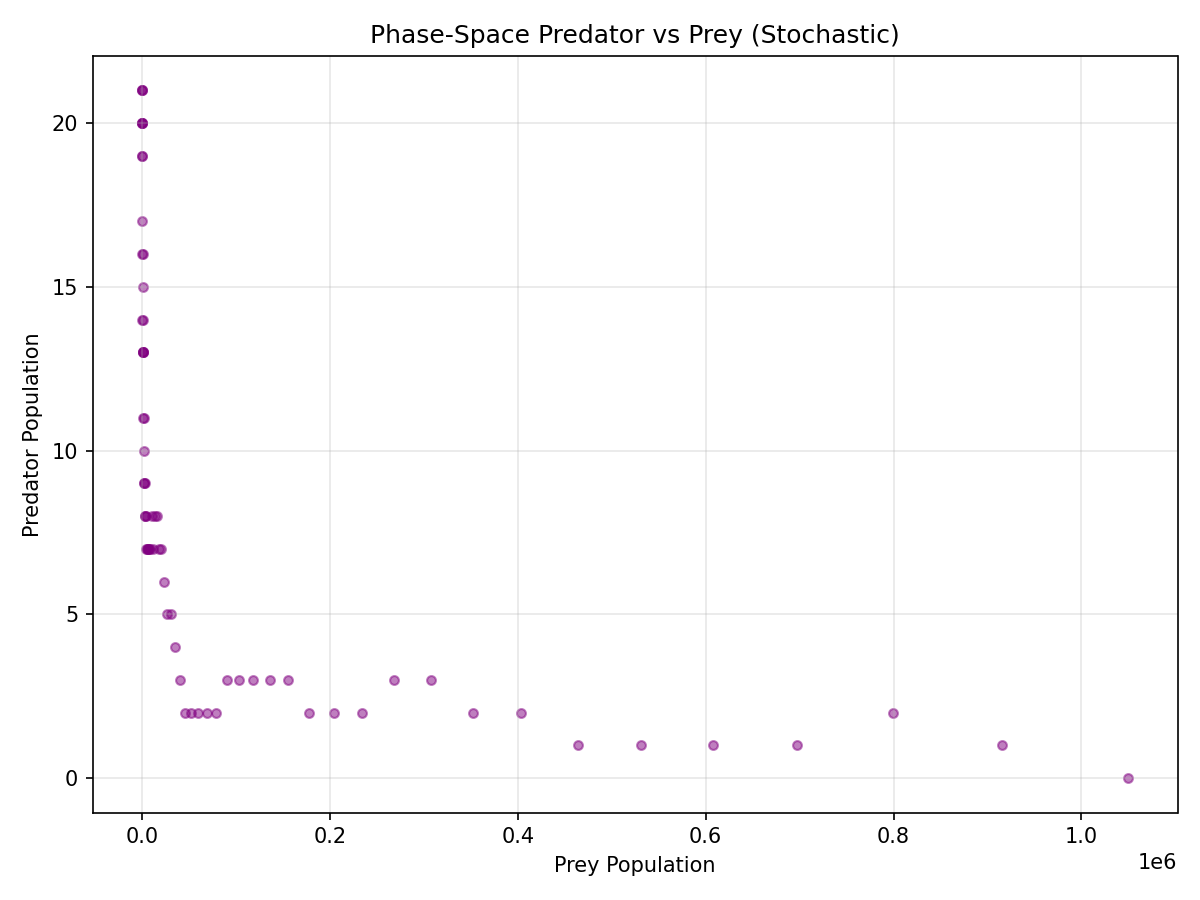
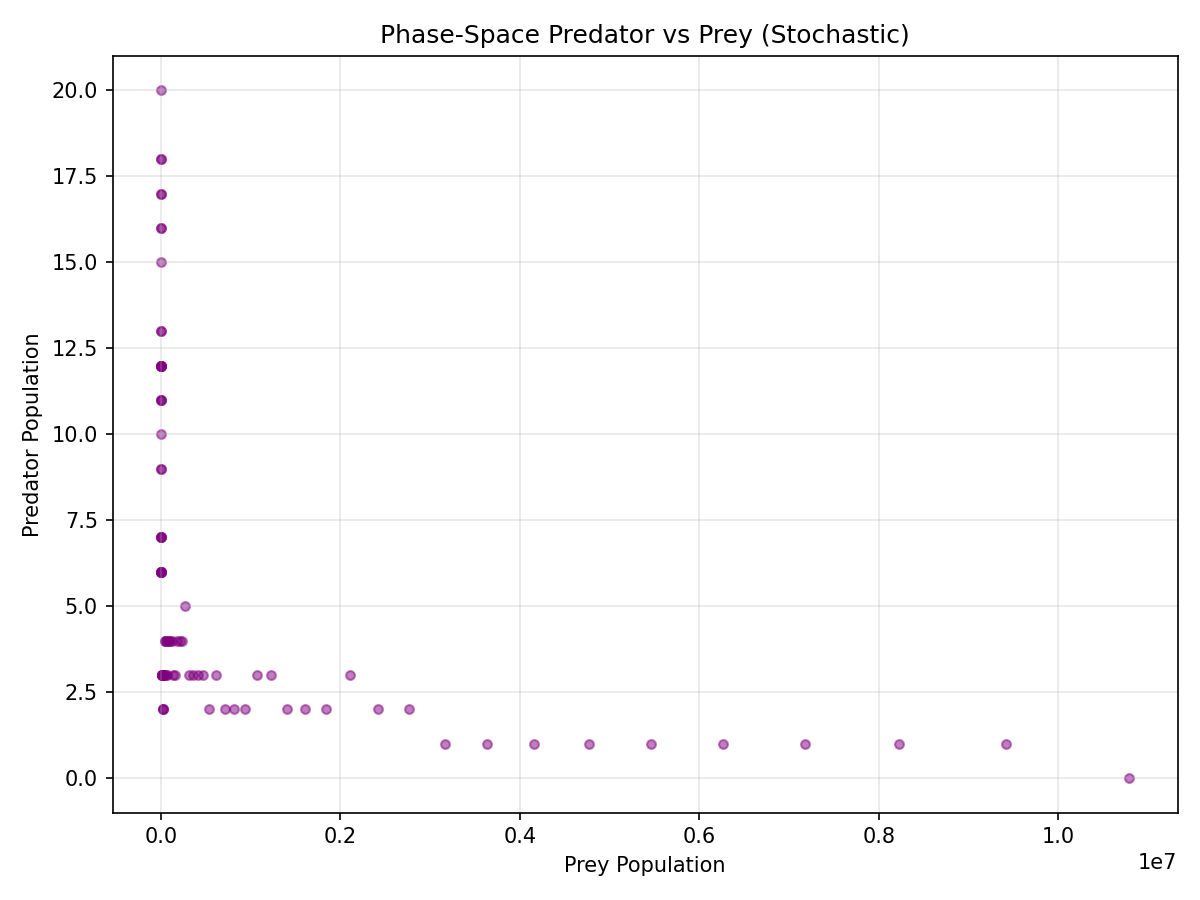
change

diff --git a/main.py b/main.py
@@ -85,7 +85,7 @@ plt.figure(figsize=(8,6))
 plt.scatter(prey.population, predator.population, s=18, alpha=0.5, color="purple")
 plt.xlabel("Prey Population")
 plt.ylabel("Predator Population")
-plt.title("Phase-Space Predator vs Prey (Stochastic)")
+plt.title("Predator vs Prey (Stochastic)")
 plt.grid(alpha=0.3)
 plt.tight_layout()
 
